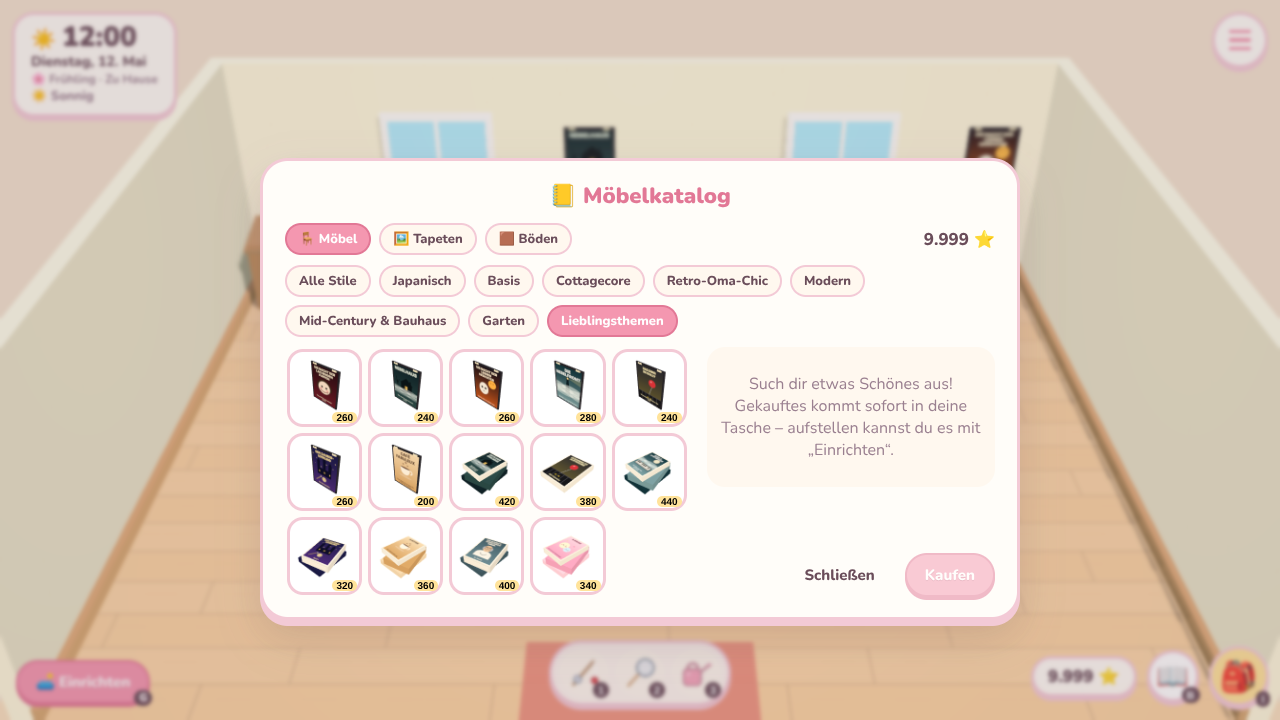
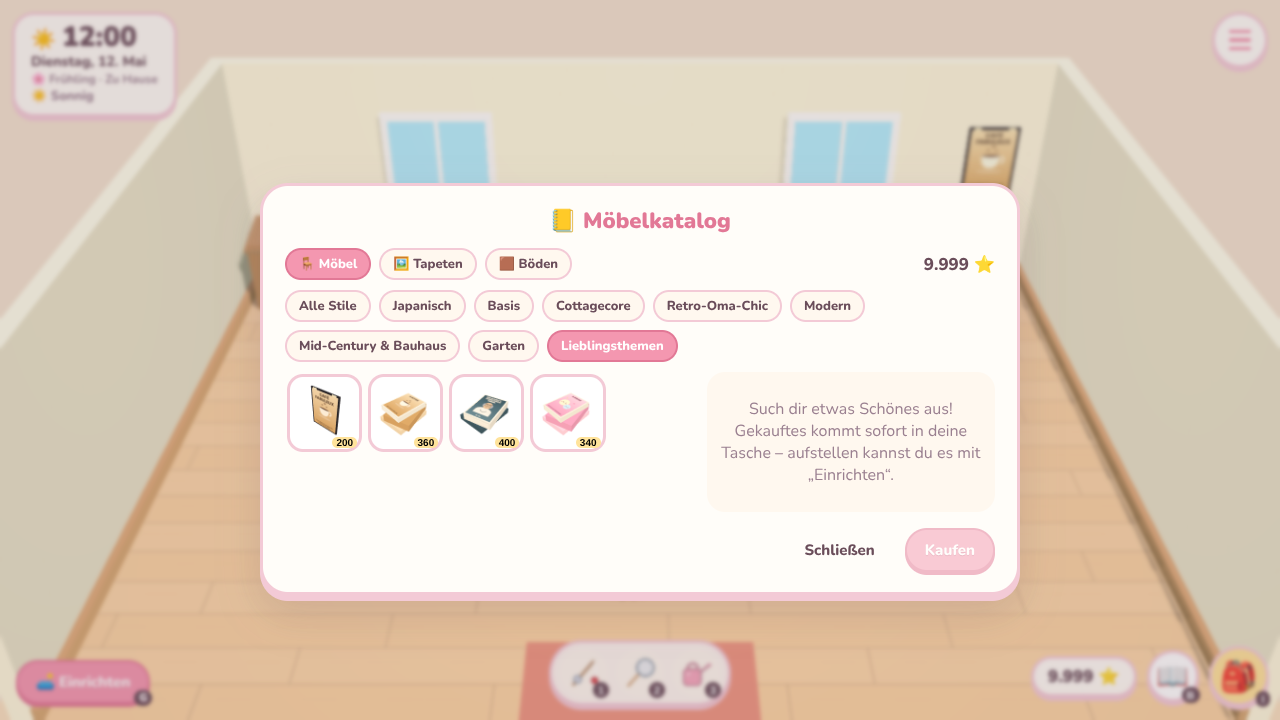
Horror- und Zauberschul-Poster & -Bücher entfernt, übrig: Kaffee-Poster und drei Bildbände; Dr. Nowak heißt Dr. No
Claude-Session: https://claude.ai/code/session_01ThTYhPHTkGtFy4ue8CC8z3

Changed region(s): [[0.1875, 0.1528, 0.8125, 0.8861], [0.5625, 0.5194, 0.7812, 0.6722], [0.7188, 0.3056, 0.7812, 0.3972]]

diff --git a/src/gfx/posters.ts b/src/gfx/posters.ts
@@ -15,15 +15,6 @@ function heart(ctx: C, x: number, y: number, s: number, color: string) {
   ctx.fill();
 }
 
-function fog(ctx: C, w: number, y: number, h: number, alpha: number) {
-  ctx.fillStyle = `rgba(235, 245, 245, ${alpha})`;
-  for (let i = 0; i < 4; i++) {
-    ctx.beginPath();
-    ctx.ellipse((w / 3) * i, y + (i % 2) * h * 0.3, w * 0.42, h * 0.5, 0, 0, Math.PI * 2);
-    ctx.fill();
-  }
-}
-
 function star(ctx: C, x: number, y: number, r: number, color: string) {
   ctx.fillStyle = color;
   ctx.beginPath();
@@ -37,171 +28,6 @@ function star(ctx: C, x: number, y: number, r: number, color: string) {
 }
 
 const MOTIFS: Record<PosterMotif, (ctx: C, w: number, h: number) => void> = {
-  puppen: (ctx, w, h) => {
-    const cx = w / 2;
-    const cy = h * 0.54;
-    const r = w * 0.25;
-    // Locken
-    ctx.fillStyle = '#3a2418';
-    for (let i = 0; i < 9; i++) {
-      const a = Math.PI + (i / 8) * Math.PI;
-      ctx.beginPath();
-      ctx.arc(cx + Math.cos(a) * r * 1.05, cy + Math.sin(a) * r * 1.05, r * 0.28, 0, Math.PI * 2);
-      ctx.fill();
-    }
-    ctx.fillStyle = '#f2e0d0';
-    ctx.beginPath();
-    ctx.arc(cx, cy, r, 0, Math.PI * 2);
-    ctx.fill();
-    ctx.fillStyle = '#f0a0a0';
-    for (const x of [-1, 1]) {
-      ctx.beginPath();
-      ctx.ellipse(cx + x * r * 0.55, cy + r * 0.25, r * 0.2, r * 0.12, 0, 0, Math.PI * 2);
-      ctx.fill();
-    }
-    ctx.fillStyle = '#16100e';
-    for (const x of [-1, 1]) {
-      ctx.beginPath();
-      ctx.arc(cx + x * r * 0.38, cy - r * 0.1, r * 0.16, 0, Math.PI * 2);
-      ctx.fill();
-    }
-    // zu breites Grinsen mit Nähten
-    ctx.strokeStyle = '#7a0f1a';
-    ctx.lineWidth = Math.max(2, w * 0.018);
-    ctx.beginPath();
-    ctx.moveTo(cx - r * 0.75, cy + r * 0.35);
-    ctx.quadraticCurveTo(cx, cy + r * 0.95, cx + r * 0.75, cy + r * 0.35);
-    ctx.stroke();
-    for (let i = -3; i <= 3; i++) {
-      ctx.beginPath();
-      ctx.moveTo(cx + i * r * 0.2, cy + r * (0.55 + 0.1 * (1 - Math.abs(i) / 3)));
-      ctx.lineTo(cx + i * r * 0.2, cy + r * (0.72 + 0.1 * (1 - Math.abs(i) / 3)));
-      ctx.stroke();
-    }
-  },
-  nebelhaus: (ctx, w, h) => {
-    ctx.fillStyle = '#0a1418';
-    // Baum
-    ctx.fillRect(w * 0.15, h * 0.4, w * 0.03, h * 0.28);
-    ctx.strokeStyle = '#0a1418';
-    ctx.lineWidth = w * 0.02;
-    for (const [dx, dy] of [[-0.1, -0.1], [0.08, -0.14], [-0.05, -0.2]] as const) {
-      ctx.beginPath();
-      ctx.moveTo(w * 0.165, h * 0.5);
-      ctx.lineTo(w * (0.165 + dx), h * (0.5 + dy));
-      ctx.stroke();
-    }
-    // Haus mit Giebel
-    ctx.fillRect(w * 0.32, h * 0.42, w * 0.46, h * 0.26);
-    ctx.beginPath();
-    ctx.moveTo(w * 0.28, h * 0.42);
-    ctx.lineTo(w * 0.55, h * 0.26);
-    ctx.lineTo(w * 0.82, h * 0.42);
-    ctx.fill();
-    ctx.fillRect(w * 0.68, h * 0.3, w * 0.05, h * 0.1);
-    // ein Fenster brennt
-    ctx.fillStyle = '#ffd36b';
-    ctx.fillRect(w * 0.5, h * 0.48, w * 0.1, h * 0.1);
-    ctx.fillStyle = '#0a1418';
-    ctx.fillRect(w * 0.545, h * 0.48, w * 0.01, h * 0.1);
-    ctx.fillRect(w * 0.5, h * 0.525, w * 0.1, h * 0.01);
-    fog(ctx, w, h * 0.62, h * 0.12, 0.45);
-    fog(ctx, w, h * 0.72, h * 0.1, 0.3);
-  },
-  masken: (ctx, w, h) => {
-    // Kürbis-Mond
-    ctx.fillStyle = '#ffb74a';
-    ctx.beginPath();
-    ctx.arc(w * 0.74, h * 0.37, w * 0.15, 0, Math.PI * 2);
-    ctx.fill();
-    ctx.fillStyle = '#7a3a10';
-    for (const x of [-1, 1]) {
-      ctx.beginPath();
-      ctx.moveTo(w * 0.74 + x * w * 0.06, h * 0.35);
-      ctx.lineTo(w * 0.74 + x * w * 0.025, h * 0.35);
-      ctx.lineTo(w * 0.74 + x * w * 0.045, h * 0.315);
-      ctx.fill();
-    }
-    // Maske
-    const cx = w * 0.4;
-    const cy = h * 0.58;
-    ctx.fillStyle = '#f6f1e8';
-    ctx.beginPath();
-    ctx.ellipse(cx, cy, w * 0.2, h * 0.17, 0, 0, Math.PI * 2);
-    ctx.fill();
-    ctx.fillStyle = '#16100e';
-    for (const x of [-1, 1]) {
-      ctx.beginPath();
-      ctx.ellipse(cx + x * w * 0.075, cy - h * 0.025, w * 0.04, h * 0.032, 0, 0, Math.PI * 2);
-      ctx.fill();
-    }
-    ctx.fillRect(cx - w * 0.04, cy + h * 0.07, w * 0.08, h * 0.015);
-  },
-  nebelfront: (ctx, w, h) => {
-    // Leuchtturm
-    ctx.fillStyle = '#0c2028';
-    ctx.beginPath();
-    ctx.moveTo(w * 0.4, h * 0.7);
-    ctx.lineTo(w * 0.46, h * 0.3);
-    ctx.lineTo(w * 0.54, h * 0.3);
-    ctx.lineTo(w * 0.6, h * 0.7);
-    ctx.fill();
-    ctx.fillRect(w * 0.44, h * 0.24, w * 0.12, h * 0.06);
-    ctx.fillStyle = '#ffe9a0';
-    ctx.fillRect(w * 0.47, h * 0.25, w * 0.06, h * 0.04);
-    // Lichtstrahl
-    ctx.fillStyle = 'rgba(255, 233, 160, 0.25)';
-    ctx.beginPath();
-    ctx.moveTo(w * 0.53, h * 0.27);
-    ctx.lineTo(w, h * 0.18);
-    ctx.lineTo(w, h * 0.34);
-    ctx.fill();
-    fog(ctx, w, h * 0.55, h * 0.2, 0.55);
-    fog(ctx, w, h * 0.68, h * 0.16, 0.45);
-  },
-  zauber: (ctx, w, h) => {
-    for (let i = 0; i < 16; i++) star(ctx, (i * 37.1) % w, ((i * 53.3) % (h * 0.4)) + h * 0.04, w * (0.012 + (i % 3) * 0.006), 'rgba(255, 233, 168, 0.85)');
-    ctx.fillStyle = '#0e0e2a';
-    // Schloss
-    ctx.fillRect(w * 0.2, h * 0.46, w * 0.6, h * 0.2);
-    for (const [x, hh] of [[0.2, 0.16], [0.45, 0.22], [0.68, 0.14]] as const) {
-      ctx.fillRect(w * x, h * (0.46 - hh), w * 0.12, h * hh);
-      ctx.beginPath();
-      ctx.moveTo(w * (x - 0.015), h * (0.46 - hh));
-      ctx.lineTo(w * (x + 0.06), h * (0.46 - hh - 0.1));
-      ctx.lineTo(w * (x + 0.135), h * (0.46 - hh));
-      ctx.fill();
-    }
-    ctx.fillStyle = '#ffd36b';
-    for (const x of [0.28, 0.5, 0.72]) ctx.fillRect(w * x, h * 0.54, w * 0.03, h * 0.04);
-    // Eule
-    const ex = w * 0.5;
-    const ey = h * 0.78;
-    ctx.fillStyle = '#d9c8a0';
-    ctx.beginPath();
-    ctx.ellipse(ex, ey, w * 0.09, h * 0.07, 0, 0, Math.PI * 2);
-    ctx.fill();
-    ctx.fillStyle = '#ffd36b';
-    for (const x of [-1, 1]) {
-      ctx.beginPath();
-      ctx.arc(ex + x * w * 0.04, ey - h * 0.01, w * 0.025, 0, Math.PI * 2);
-      ctx.fill();
-    }
-    ctx.fillStyle = '#16100e';
-    for (const x of [-1, 1]) {
-      ctx.beginPath();
-      ctx.arc(ex + x * w * 0.04, ey - h * 0.01, w * 0.01, 0, Math.PI * 2);
-      ctx.fill();
-    }
-    // Zauberstab mit Funken
-    ctx.strokeStyle = '#d9b45a';
-    ctx.lineWidth = w * 0.016;
-    ctx.beginPath();
-    ctx.moveTo(w * 0.12, h * 0.9);
-    ctx.lineTo(w * 0.34, h * 0.74);
-    ctx.stroke();
-    star(ctx, w * 0.36, h * 0.72, w * 0.035, '#fff6c8');
-  },
   kaffee: (ctx, w, h) => {
     const cx = w / 2;
     ctx.fillStyle = '#fdf6ea';
@@ -226,66 +52,7 @@ const MOTIFS: Record<PosterMotif, (ctx: C, w: number, h: number) => void> = {
     ctx.fill();
     for (const [dx, dy, s] of [[-0.08, 0.32, 0.05], [0.03, 0.26, 0.06], [0.1, 0.33, 0.045]] as const) heart(ctx, cx + w * dx, h * dy, w * s, 'rgba(110, 70, 48, 0.55)');
   },
-  ballon: (ctx, w, h) => {
-    // Gully-Gitter
-    ctx.fillStyle = '#16161a';
-    ctx.fillRect(0, h * 0.74, w, h * 0.26);
-    ctx.strokeStyle = '#4a4a54';
-    ctx.lineWidth = w * 0.018;
-    for (let i = 1; i < 6; i++) {
-      ctx.beginPath();
-      ctx.moveTo(w * (i / 6), h * 0.74);
-      ctx.lineTo(w * (i / 6), h);
-      ctx.stroke();
-    }
-    ctx.beginPath();
-    ctx.moveTo(0, h * 0.74);
-    ctx.lineTo(w, h * 0.74);
-    ctx.stroke();
-    // gelbe Augen im Dunkeln
-    ctx.fillStyle = '#ffe14a';
-    for (const x of [-1, 1]) {
-      ctx.beginPath();
-      ctx.ellipse(w / 2 + x * w * 0.07, h * 0.86, w * 0.03, h * 0.012, 0, 0, Math.PI * 2);
-      ctx.fill();
-    }
-    // roter Ballon mit Schnur
-    ctx.fillStyle = '#d8343c';
-    ctx.beginPath();
-    ctx.ellipse(w * 0.62, h * 0.38, w * 0.14, h * 0.1, 0, 0, Math.PI * 2);
-    ctx.fill();
-    ctx.fillStyle = 'rgba(255, 255, 255, 0.5)';
-    ctx.beginPath();
-    ctx.ellipse(w * 0.58, h * 0.34, w * 0.035, h * 0.02, -0.5, 0, Math.PI * 2);
-    ctx.fill();
-    ctx.strokeStyle = '#e0e0e0';
-    ctx.lineWidth = Math.max(1, w * 0.008);
-    ctx.beginPath();
-    ctx.moveTo(w * 0.62, h * 0.48);
-    ctx.quadraticCurveTo(w * 0.55, h * 0.62, w * 0.5, h * 0.74);
-    ctx.stroke();
-  },
-  schreiber: (ctx, w, h) => {
-    // Synthesizer-Tasten vor Nebel und Mond
-    ctx.fillStyle = 'rgba(255, 244, 214, 0.9)';
-    ctx.beginPath();
-    ctx.arc(w * 0.7, h * 0.28, w * 0.13, 0, Math.PI * 2);
-    ctx.fill();
-    fog(ctx, w, h * 0.5, h * 0.18, 0.5);
-    ctx.fillStyle = '#10181c';
-    ctx.fillRect(w * 0.08, h * 0.62, w * 0.84, h * 0.16);
-    ctx.fillStyle = '#f2f0ea';
-    for (let i = 0; i < 9; i++) ctx.fillRect(w * (0.1 + i * 0.09), h * 0.64, w * 0.075, h * 0.12);
-    ctx.fillStyle = '#16100e';
-    for (const i of [0, 1, 3, 4, 5, 7]) ctx.fillRect(w * (0.15 + i * 0.09), h * 0.64, w * 0.05, h * 0.07);
-    for (const [x, c] of [[0.2, '#ff5a5a'], [0.3, '#5ae0ff'], [0.4, '#ffe14a']] as const) {
-      ctx.fillStyle = c;
-      ctx.beginPath();
-      ctx.arc(w * x, h * 0.6, w * 0.012, 0, Math.PI * 2);
-      ctx.fill();
-    }
-  },
-  nowak: (ctx, w, h) => {
+  'dr-no': (ctx, w, h) => {
     // Schlichtes Porträt: Kittel, Kopf, Brille, buschige Brauen
     const cx = w / 2;
     ctx.fillStyle = '#f4f1ea';

diff --git a/src/data/posters.ts b/src/data/posters.ts
@@ -1,12 +1,12 @@
 /**
- * Poster (Wand-Deko) und Coffee-Table-Books (kleine Bildbände für Tische) zu Linas Lieblingsthemen:
- * Horrorfilme, Gruselromane, Synthesizer-Gruselkino, Zauberschul-Abenteuer, Kaffee und mehr.
+ * Poster (Wand-Deko) und Coffee-Table-Books (kleine Bildbände für Tische) zu Linas Lieblingsthemen: Kaffee, Dr. No, Kawaii.
+ * (Horror- und Zauberschul-Poster gab es kurz, Lina mochte sie nicht – siehe Git-Verlauf.)
  *
- * ALLES ist ausgedacht – Titel, Autoren, Regisseure und Motive sind Hommagen an Genres und Stimmungen, keine echten Werke
- * oder Personen (siehe CLAUDE.md). Gemalt wird in `gfx/posters.ts`, die 3D-Modelle in `models/furniture.ts`.
+ * Alles ist ausgedacht – Titel und Motive sind keine echten Werke oder Personen (siehe CLAUDE.md). Gemalt wird in
+ * `gfx/posters.ts`, die 3D-Modelle in `models/furniture.ts`. Neue Poster: Eintrag in `POSTERS` + Motiv in `MOTIFS`.
  */
 
-export type PosterMotif = 'puppen' | 'nebelhaus' | 'masken' | 'nebelfront' | 'zauber' | 'kaffee' | 'ballon' | 'schreiber' | 'nowak' | 'kawaii';
+export type PosterMotif = 'kaffee' | 'dr-no' | 'kawaii';
 
 export interface PosterDef {
   id: string;
@@ -28,20 +28,10 @@ export interface PosterDef {
 
 export const POSTERS: readonly PosterDef[] = [
   // ---------------------------------------------------------------- Poster (Wand)
-  { id: 'poster-puppen', name: 'Poster „Die Nacht der lachenden Puppen“', kind: 'poster', title: 'DIE NACHT DER\nLACHENDEN PUPPEN', sub: 'Du schläfst nie wieder allein.', colors: ['#2a0e14', '#6a1a28'], ink: '#f2e6d0', motif: 'puppen', price: 260, description: 'Ein Gruselfilm-Poster mit einer Puppe, die ein bisschen zu breit grinst. Lina nennt es „Wohnzimmerschmuck“. Oli dreht es abends zur Wand.' },
-  { id: 'poster-nebelhaus', name: 'Poster „Nebelhaus“', kind: 'poster', title: 'NEBELHAUS', sub: 'Nur ein Fenster brennt noch.', colors: ['#10232a', '#2a4a4a'], ink: '#dfeee8', motif: 'nebelhaus', price: 240, description: 'Ein altes Haus im Nebel, ein einziges Fenster leuchtet. Ein Klassiker unter den Spukhaus-Filmen – und perfekt für gemütliche Abende.' },
-  { id: 'poster-masken', name: 'Poster „Die Nacht der leeren Gesichter“', kind: 'poster', title: 'DIE NACHT DER\nLEEREN GESICHTER', sub: 'Heute geht er wieder um.', colors: ['#1a1018', '#c2561e'], ink: '#fff2dc', motif: 'masken', price: 260, description: 'Eine weiße Maske, ein oranger Himmel, ein Kürbis-Vollmond. Für alle, die Halloween das ganze Jahr feiern.' },
-  { id: 'poster-nebelfront', name: 'Poster „Die Nebelfront“', kind: 'poster', title: 'DIE\nNEBELFRONT', sub: 'Ein Film von Jon Schreiner', colors: ['#12353f', '#7aa0a8'], ink: '#f2fbff', motif: 'nebelfront', price: 280, description: 'Ein Leuchtturm, eine Nebelwand und ein Soundtrack, den man nur aus Synthesizern bauen kann. Lina summt ihn beim Kochen.' },
-  { id: 'poster-gully', name: 'Poster „Das Ding im Gully“', kind: 'poster', title: 'DAS DING\nIM GULLY', sub: 'Er hat einen Luftballon für dich.', colors: ['#2a2a30', '#6a6030'], ink: '#fff6c8', motif: 'ballon', price: 240, description: 'Ein roter Luftballon, ein Gully-Gitter und zwei gelbe Augen im Dunkeln. Nach diesem Poster geht keiner mehr gern an Straßenabläufen vorbei.' },
-  { id: 'poster-zauberlehrling', name: 'Poster „Der Zauberlehrling von Hohenkrähe“', kind: 'poster', title: 'DER ZAUBER-\nLEHRLING', sub: 'Von Hohenkrähe', colors: ['#1a1a4a', '#4a2a7a'], ink: '#ffe9a8', motif: 'zauber', price: 260, description: 'Eine Schloss-Schule auf einem Berg, eine Eule im Mondlicht und ein Zauberstab, der Funken sprüht. Für alle, die immer noch auf ihren Brief warten.' },
   { id: 'poster-kaffee', name: 'Retro-Poster „Café Fabuleux“', kind: 'poster', title: 'CAFÉ\nFABULEUX', sub: 'Das Leben ist zu kurz für schlechten Kaffee.', colors: ['#f3dcb8', '#d9a86a'], ink: '#4a2a1c', motif: 'kaffee', price: 200, description: 'Ein Kaffee-Poster im Stil alter Café-Werbung. Mit Dampfherzchen. Jens will es auch haben.' },
   // ---------------------------------------------------------------- Bildbände (Tisch)
-  { id: 'buch-grusel', name: 'Bildband „Orte des Grauens“', kind: 'buch', title: 'ORTE DES\nGRAUENS', sub: 'Spukhäuser & Nebelstraßen', colors: ['#10232a', '#2a4a4a'], ink: '#dfeee8', motif: 'nebelhaus', price: 420, description: 'Ein schwerer Bildband über die gruseligsten Häuser und Straßen der Welt. Lina blättert abends darin und lässt das Licht an.' },
-  { id: 'buch-albtraeume', name: 'Gruselroman „Gesammelte Albträume“', kind: 'buch', title: 'GESAMMELTE\nALBTRÄUME', sub: 'Stan Kingsbury', colors: ['#2a2a30', '#6a6030'], ink: '#fff6c8', motif: 'ballon', price: 380, description: 'Ein dicker Sammelband mit Gruselgeschichten von Stan Kingsbury – dem Meister der Kleinstadt-Albträume. Hat Eselsohren. Und einen Kaffeefleck.' },
-  { id: 'buch-schreiner', name: 'Bildband „Nebel & Synthesizer“', kind: 'buch', title: 'NEBEL &\nSYNTHESIZER', sub: 'Die Filme von Jon Schreiner', colors: ['#12353f', '#7aa0a8'], ink: '#f2fbff', motif: 'schreiber', price: 440, description: 'Der große Bildband über den Regisseur, der Gruselfilme mit Synthesizer-Soundtracks gemacht hat. Mit Setfotos und Notenblättern.' },
-  { id: 'buch-zauberlehrling', name: 'Roman „Der Zauberlehrling von Hohenkrähe“', kind: 'buch', title: 'DER ZAUBER-\nLEHRLING', sub: 'Band 1', colors: ['#1a1a4a', '#4a2a7a'], ink: '#ffe9a8', motif: 'zauber', price: 320, description: 'Der erste Band der Zauberschul-Reihe, schon ein bisschen zerlesen. Auf der ersten Seite steht in Linas Handschrift: „Mein Brief kommt bestimmt noch.“' },
   { id: 'buch-kaffee', name: 'Bildband „Kaffee – eine Liebeserklärung“', kind: 'buch', title: 'KAFFEE', sub: 'Eine Liebeserklärung', colors: ['#f3dcb8', '#d9a86a'], ink: '#4a2a1c', motif: 'kaffee', price: 360, description: 'Ein Bildband über Bohnen, Röstungen und Siebträger. Er riecht seltsamerweise nach Kaffee. Beim Blättern hat man Durst.' },
-  { id: 'buch-nowak', name: 'Buch „Ein Schritt. Dann noch einer.“', kind: 'buch', title: 'EIN SCHRITT.\nDANN NOCH\nEINER.', sub: 'Dr. Nowak', colors: ['#3f5a66', '#6a8a96'], ink: '#fdf6e8', motif: 'nowak', price: 400, description: 'Die Erinnerungen von Dr. Nowak aus „Schwerer Weg“. Streng im Ton, warm im Herzen. Das Lieblingsbuch auf Linas Couchtisch.' },
+  { id: 'buch-dr-no', name: 'Buch „Ein Schritt. Dann noch einer.“', kind: 'buch', title: 'EIN SCHRITT.\nDANN NOCH\nEINER.', sub: 'Dr. No', colors: ['#3f5a66', '#6a8a96'], ink: '#fdf6e8', motif: 'dr-no', price: 400, description: 'Die Erinnerungen von Dr. No aus „Schwerer Weg“. Streng im Ton, warm im Herzen. Das Lieblingsbuch auf Linas Couchtisch.' },
   { id: 'buch-kawaii', name: 'Bildband „Kawaii – die Kunst der Niedlichkeit“', kind: 'buch', title: 'KAWAII', sub: 'Die Kunst der Niedlichkeit', colors: ['#ffd6e6', '#f7a8c8'], ink: '#7a2a4a', motif: 'kawaii', price: 340, description: 'Ein Bildband voller runder, weicher, niedlicher Dinge. Auf dem Vorsatzblatt steht „Für meine Japanisch-Hausaufgaben“ – und ein Smiley.' },
 ];
 

diff --git a/src/data/posters.test.ts b/src/data/posters.test.ts
@@ -5,8 +5,8 @@ import { POSTERS } from './posters';
 
 describe('Poster & Bildbände', () => {
   it('sind Katalogmöbel: Poster hängen an der Wand, Bildbände liegen auf Tischen', () => {
-    expect(POSTERS.filter((p) => p.kind === 'poster').length).toBeGreaterThanOrEqual(6);
-    expect(POSTERS.filter((p) => p.kind === 'buch').length).toBeGreaterThanOrEqual(6);
+    expect(POSTERS.filter((p) => p.kind === 'poster').length).toBeGreaterThanOrEqual(1);
+    expect(POSTERS.filter((p) => p.kind === 'buch').length).toBeGreaterThanOrEqual(3);
     expect(new Set(POSTERS.map((p) => p.id)).size).toBe(POSTERS.length);
     for (const p of POSTERS) {
       const f = FURNITURE_BY_ITEM[p.id];

diff --git a/docs/game-mechanics.md b/docs/game-mechanics.md
@@ -86,12 +86,11 @@ Wetter und Feste laufen nach echter Zeit.
   Gewaltdetails, niemand wird verspottet (die Doku nimmt ihre Protagonisten ernst). Regeln
   in `game/tv.ts` (Folge pro Tag, Oli schaut mit, Kochshow lehrt Rezepte mit `tv: true`). Linas Herd =
   `CraftPanel` mit `station="herd"` (Küchen-Rezepte zu Hause).
-- **Poster & Bildbände (Lieblingsthemen):** `data/posters.ts` – 7 Poster (Wand-Deko) und 7 Coffee-Table-Books (kleine Bildbände für
-  Tische) zu Linas Vorlieben: Horrorfilme, Gruselromane, Synthesizer-Gruselkino, Zauberschul-Abenteuer, Kaffee, Dr. Nowak, Kawaii.
-  **Alle Titel, Autoren und Regisseure sind ausgedacht** („Die Nacht der lachenden Puppen“, Stan Kingsbury, Jon Schreiner,
-  „Der Zauberlehrling von Hohenkrähe“ …) – Hommagen an Genres und Stimmungen, keine echten Werke oder Personen. Stil
-  „Lieblingsthemen“ im Möbelkatalog. Gemalt wird in `gfx/posters.ts` (Motiv + Titel), die 3D-Modelle (Poster mit Rahmen, Stapel
-  Bildbände mit Cover oben) in `models/furniture.ts`. Neue Poster: Eintrag in `POSTERS` genügt.
+- **Poster & Bildbände (Lieblingsthemen):** `data/posters.ts` – ein Retro-Kaffee-Poster (Wand-Deko) und drei Coffee-Table-Books (kleine
+  Bildbände für Tische): „Kaffee – eine Liebeserklärung“, Dr. Nos Memoiren „Ein Schritt. Dann noch einer.“ und „Kawaii“. Titel
+  und Motive sind ausgedacht (keine echten Werke/Personen). Stil „Lieblingsthemen“ im Möbelkatalog. Gemalt wird in
+  `gfx/posters.ts`, die 3D-Modelle (Poster mit Rahmen, Stapel Bildbände mit Cover oben) in `models/furniture.ts`. Neue Poster:
+  Eintrag in `POSTERS` + Motiv in `MOTIFS`. (Horror- und Zauberschul-Poster wurden wieder entfernt – Lina mochte sie nicht.)
 - **Galerie:** Kunstwerke in `data/art.ts` (werden Möbel im Stil „kunst“, Bild auf Staffelei, gemalt in
   `gfx/art.ts`), Regeln in `game/gallery.ts`, gestiftete Bilder in `SaveData.gallery`.
 - **Sonntagsessen:** `game/dinner.ts` – Gäste gehen per `{ kind: 'zuhause', at: 'bistro-jens' }` zu Jens

diff --git a/docs/development-status.md b/docs/development-status.md
@@ -251,7 +251,7 @@ Legende: ✅ erledigt · 🚧 in Arbeit · ⬜ geplant
   Adventskranz, Kaminofen, Lebkuchenhaus, Nussknacker, Schneeflocken-Teppich & -Tapete, Lichtervorhang, Strumpf,
   Schlitten), Bratapfel & Zimtsterne, Punschstand am Weihnachtsbaum, Fußspuren im Schnee, Atemwölkchen,
   Schneeflocken fangen · Modelle für Sparschwein, Weihnachtsstern & Kuscheldecke (waren rosa Würfel)
-- ✅ **M8m Poster & Bildbände:** 7 Poster und 7 Coffee-Table-Books zu Linas Lieblingsthemen (ausgedachte Titel), Stil „Lieblingsthemen“
+- ✅ **M8m Poster & Bildbände:** Retro-Kaffee-Poster und drei Coffee-Table-Books (Kaffee, Dr. No, Kawaii), Stil „Lieblingsthemen“
 - ⬜ Weitere Animationen & Partikel, Balancing
 
 ## 💡 Ideen-Parkplatz
